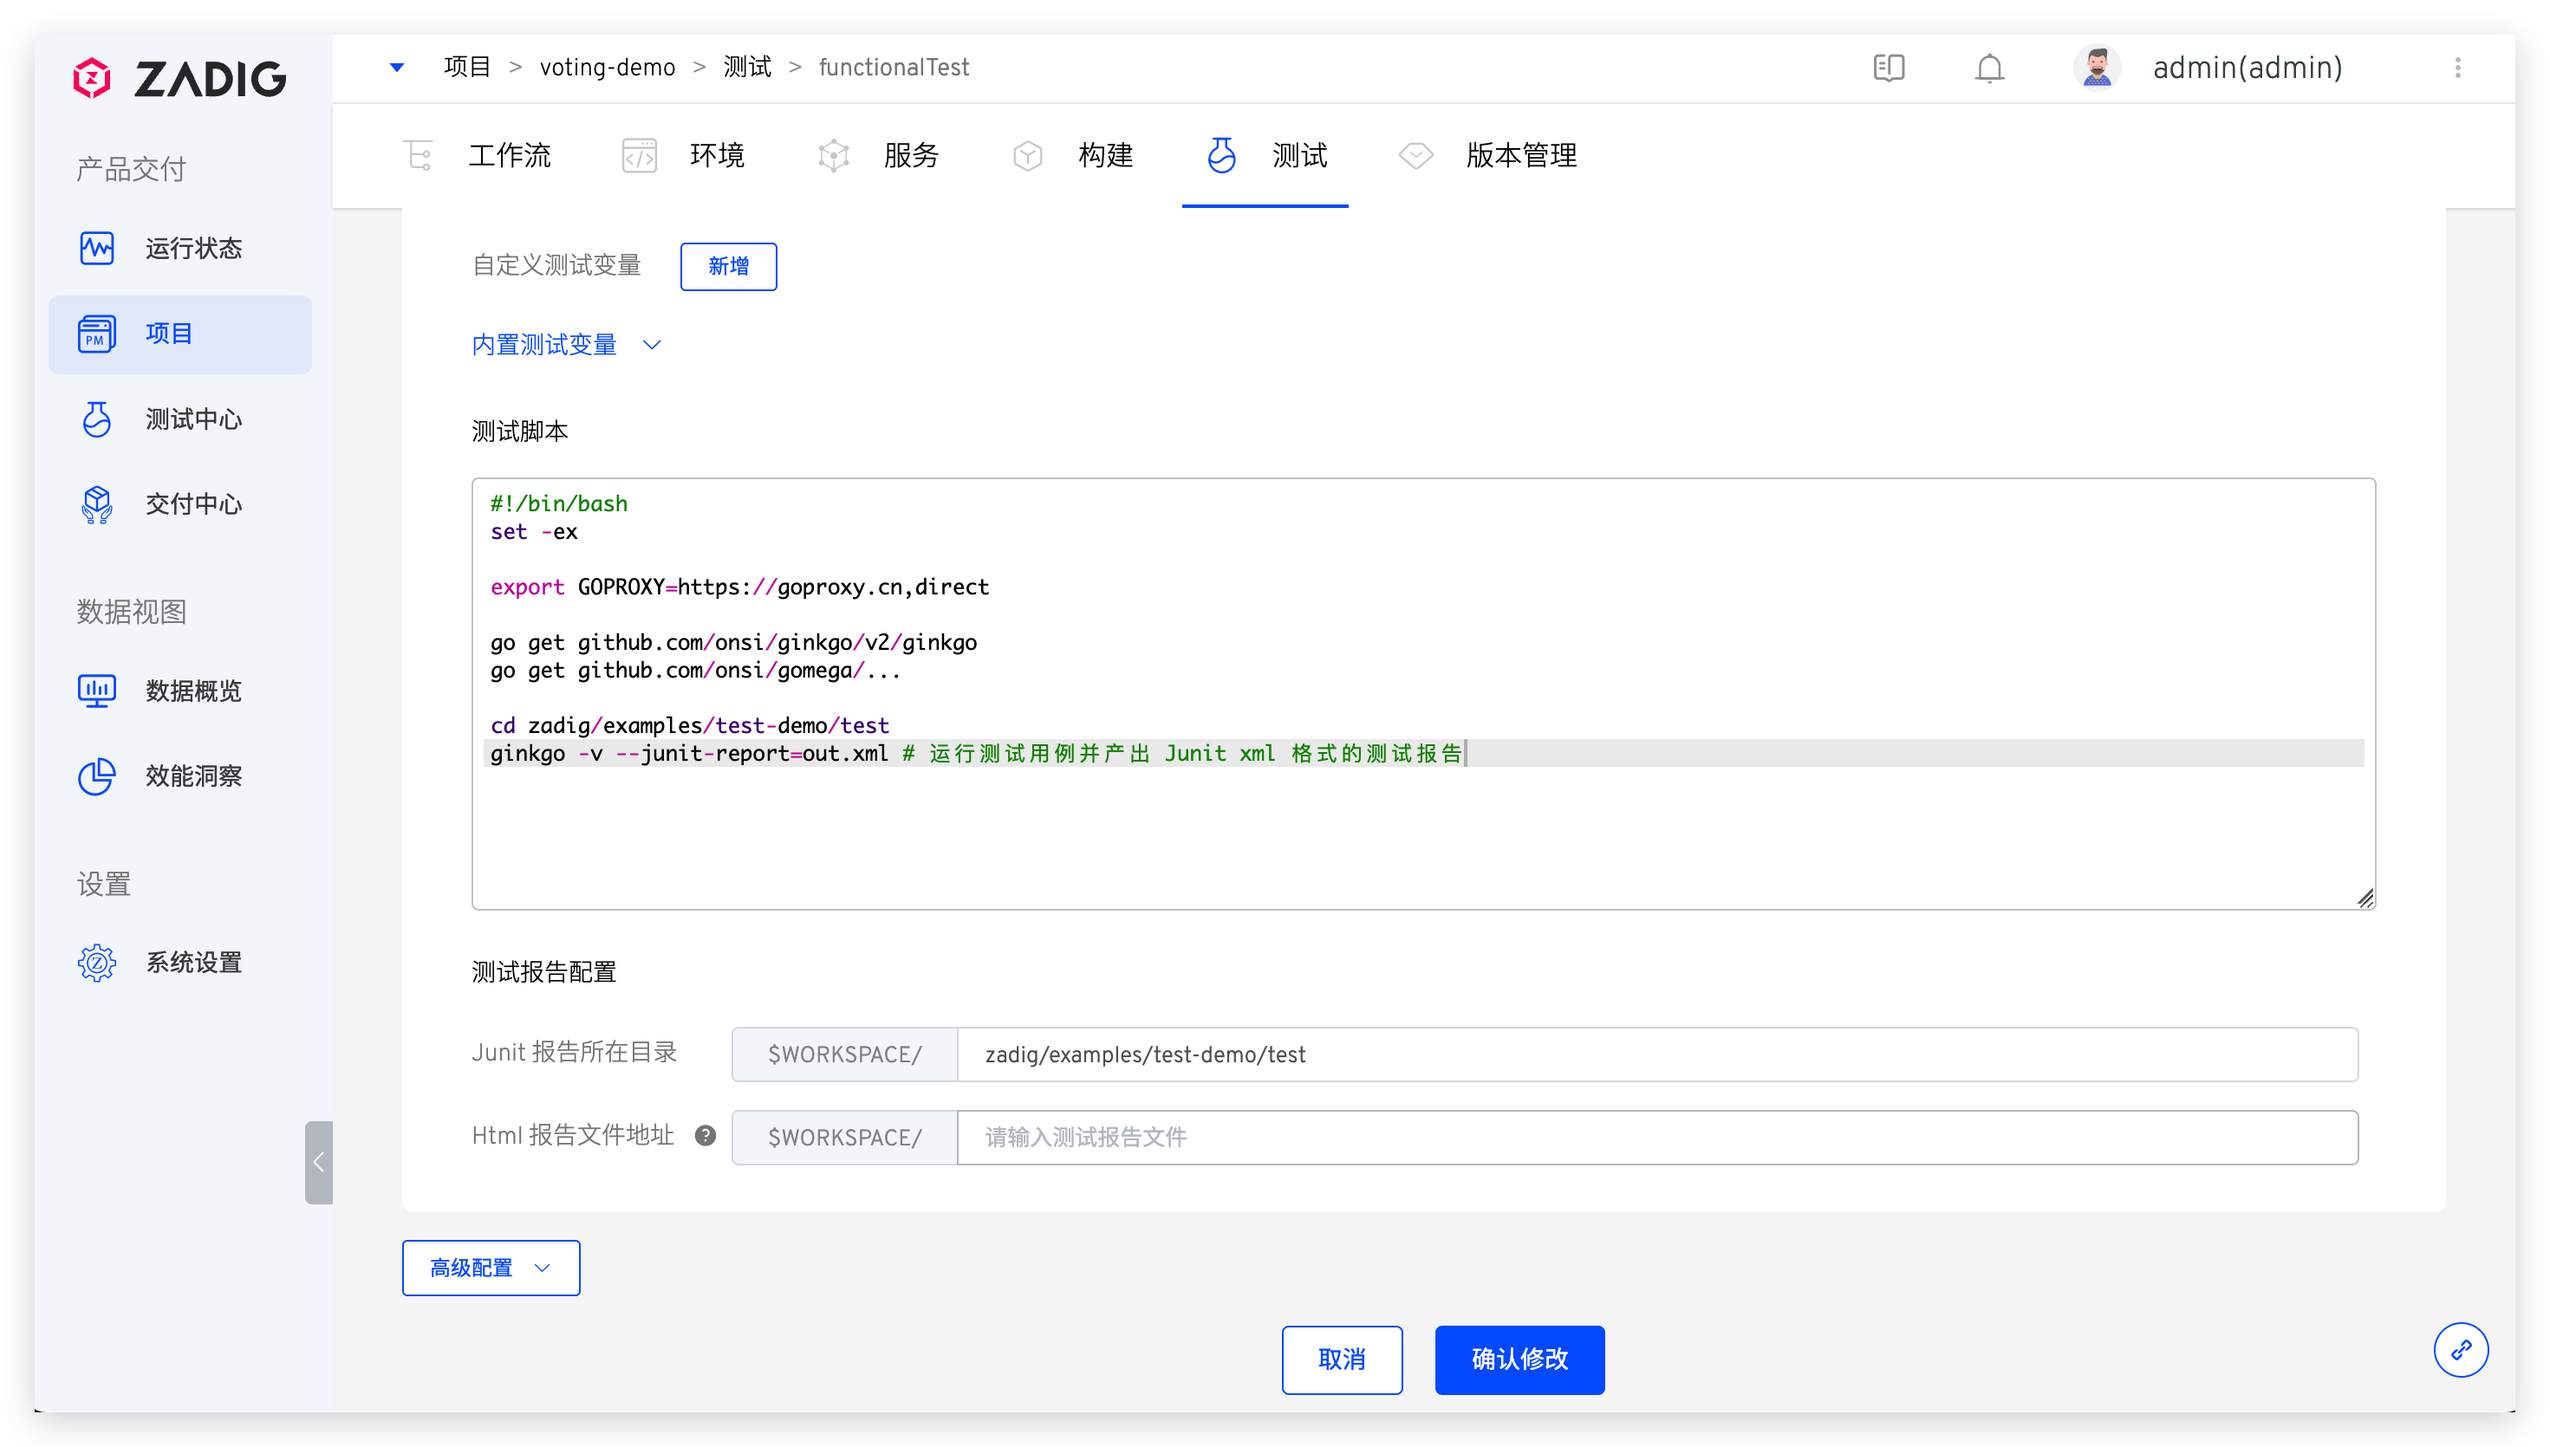
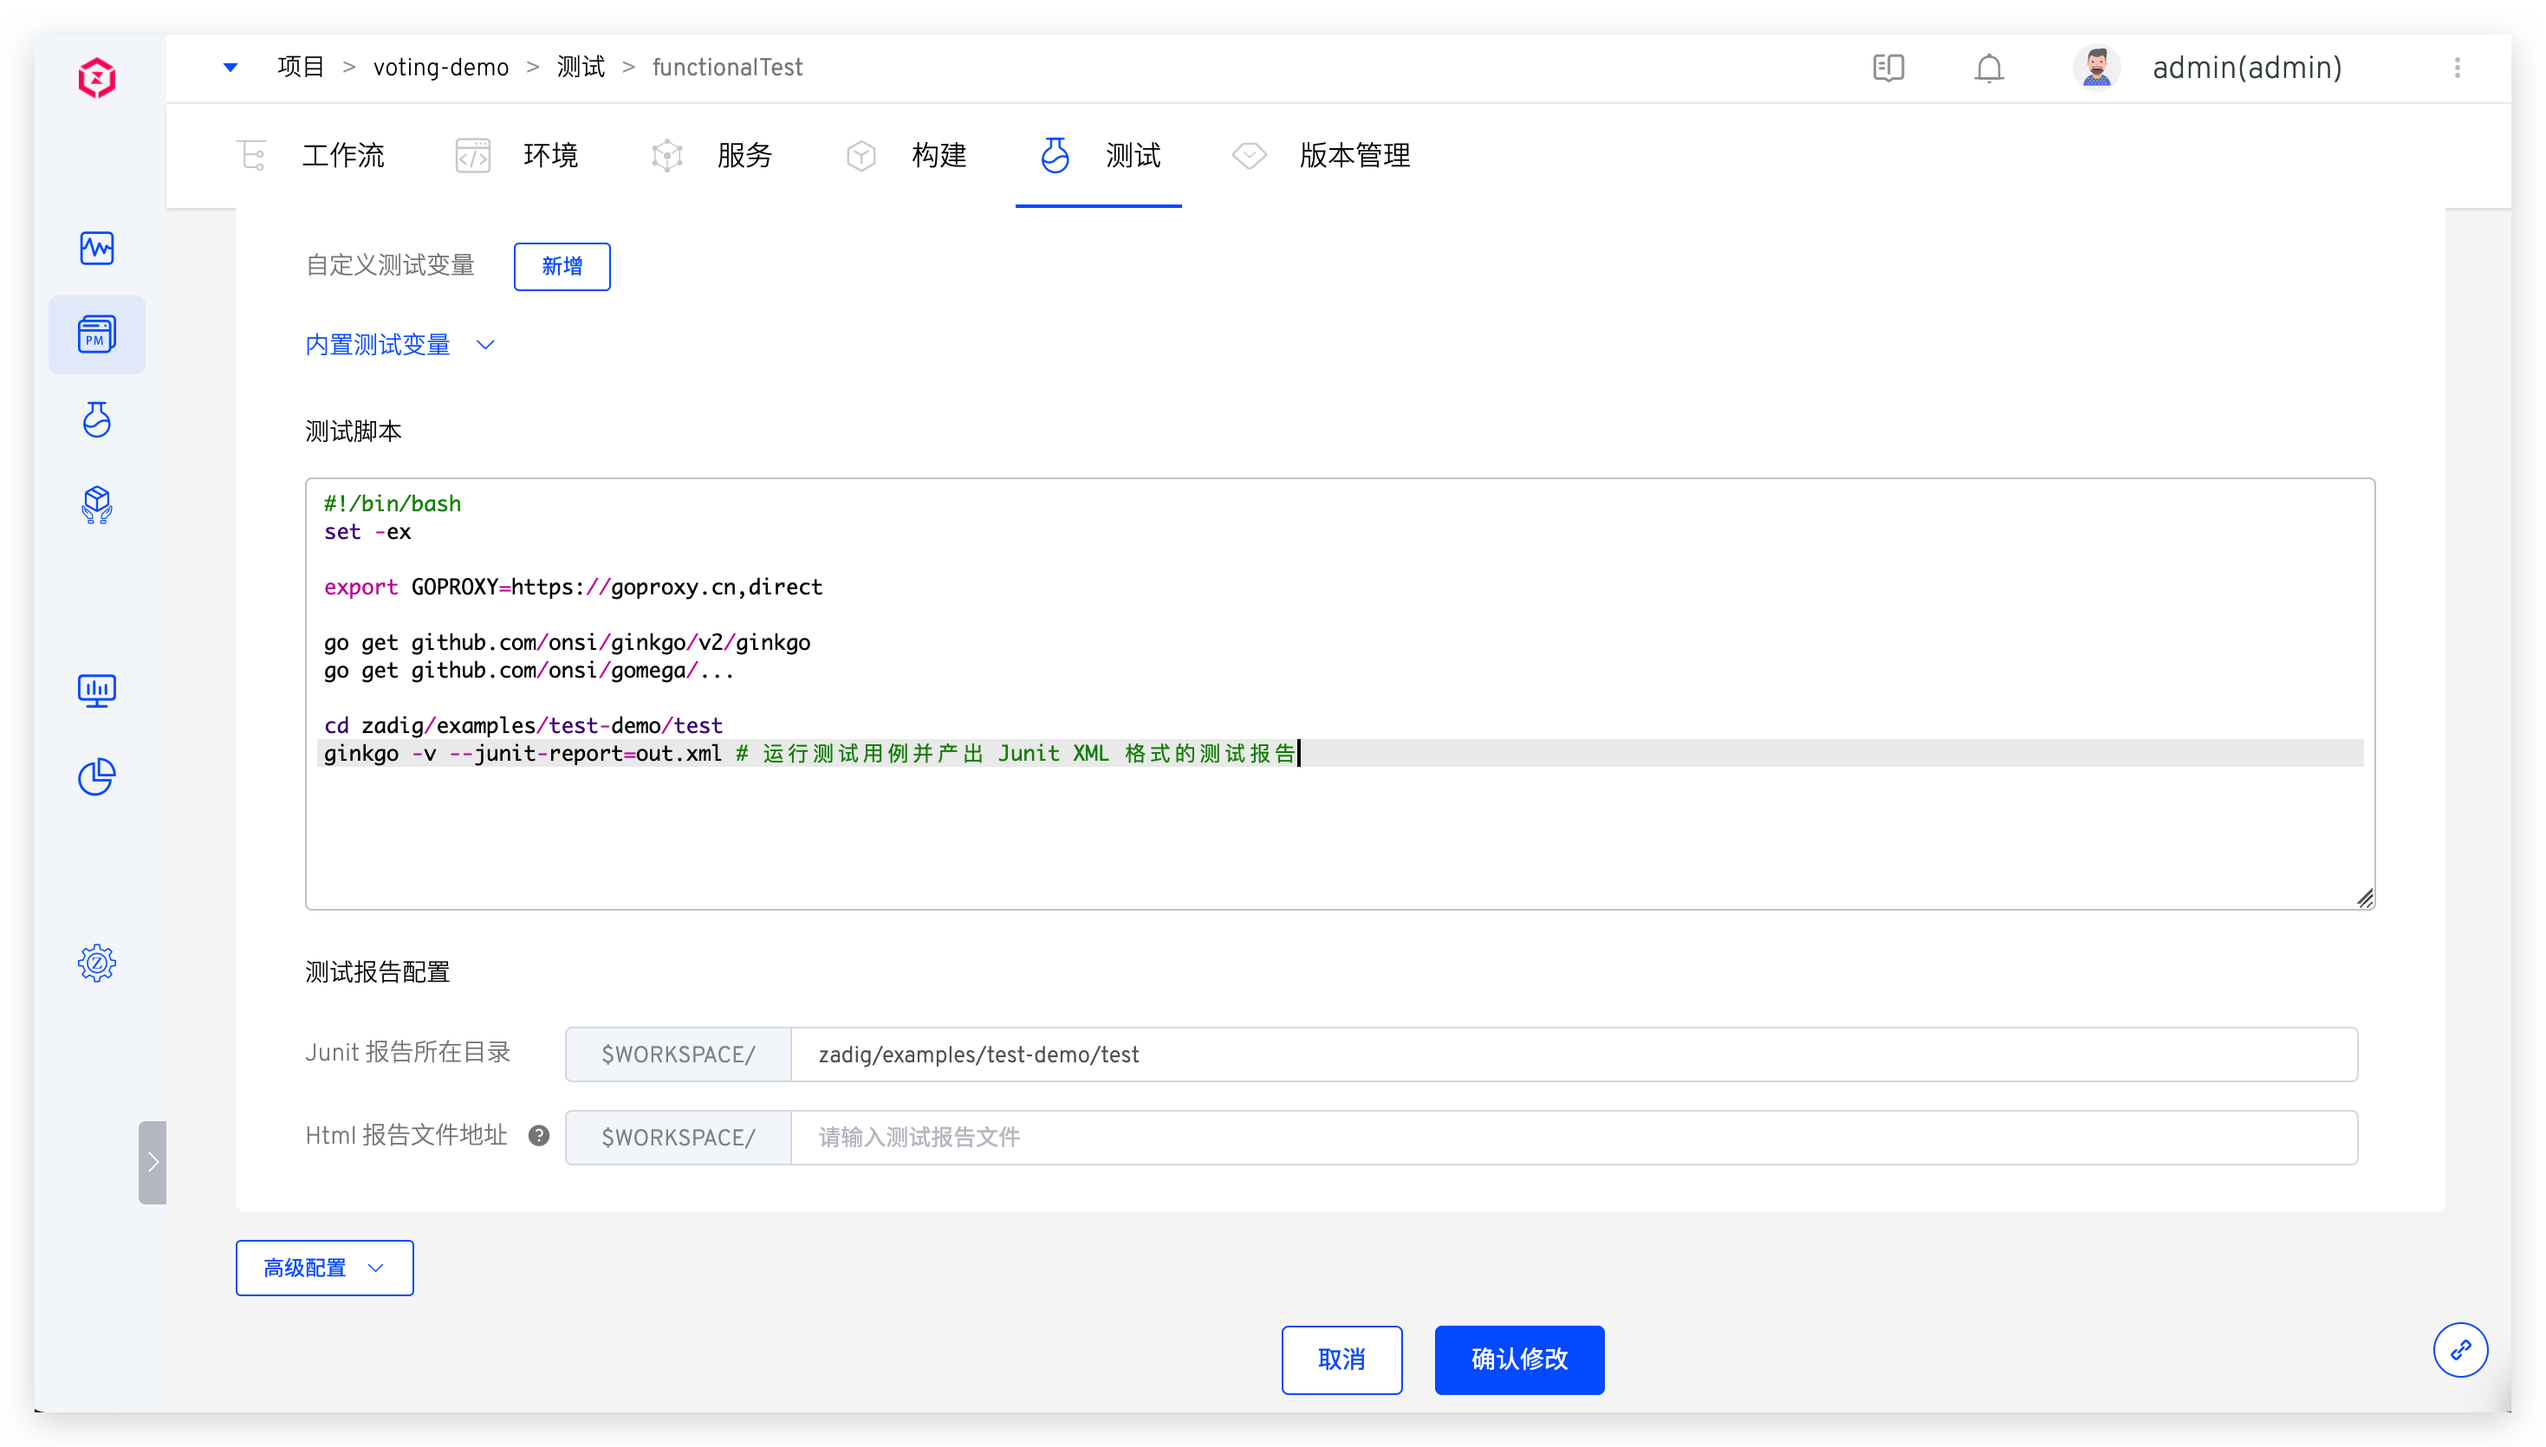
fix comments

diff --git a/dev/04.项目/06.test.md b/dev/04.项目/06.test.md
@@ -6,7 +6,7 @@ permalink: /dev/project/test/
 
 Zadig 支持性能、功能、接口、UI、端到端自动化测试等诸多测试场景，内置了 jMeter、ginkgo 等主流测试框架，还可以通过[安装软件包](/dev/settings/app/)以满足更为丰富的自动化测试需要。
 
-测试模块主要包含自动化测试集管理、测试环境的支持、测试执行和结果分析，同时支持标准 Junit / HTML 测试报告的输出。
+测试模块主要包含自动化测试集管理、测试环境的支持、测试执行和结果分析，同时支持标准 Junit / Html 测试报告的输出。
 
 ## 测试管理
 
@@ -76,7 +76,7 @@ Zadig 支持性能、功能、接口、UI、端到端自动化测试等诸多测
 ![测试管理](./_images/test_report.png)
 
 说明：
-  - 支持标准 Junit xml/Html 格式的测试报告。
+  - 支持标准 Junit XML / Html 格式的测试报告。
   - 对于 Junit 测试报告，需要配置其所在的目录，比如 `$WORKSPACE/path/to/junit_report/`，若目录下有多个测试报告，Zadig 会将所有测试报告合并视为最终报告。
   - 对于 Html 测试报告，需要配置其具体的文件路径，比如 `$WORKSPACE/path/to/html_report/result.html`，Html 测试报告文件将包含在测试任务发送的 IM 通知内容中。
 

diff --git a/dev/08.测试中心/02.test_practice.md b/dev/08.测试中心/02.test_practice.md
@@ -84,9 +84,9 @@ export GOPROXY=https://goproxy.cn,direct
 go get github.com/onsi/ginkgo/v2/ginkgo
 go get github.com/onsi/gomega/...
 cd zadig/examples/test-demo/test
-ginkgo -v --junit-report=out.xml # 运行测试用例并产出 Junit xml 格式的测试报告
+ginkgo -v --junit-report=out.xml # 运行测试用例并产出 Junit XML 格式的测试报告
 ```
-- 测试报告配置：配置 Junit xml 格式的测试报告目录，本例中为 `$WORKSPACE/zadig/examples/test-demo/test`
+- 测试报告配置：配置 Junit XML 格式的测试报告目录，本例中为 `$WORKSPACE/zadig/examples/test-demo/test`
 
 #### 执行自动化测试
 
